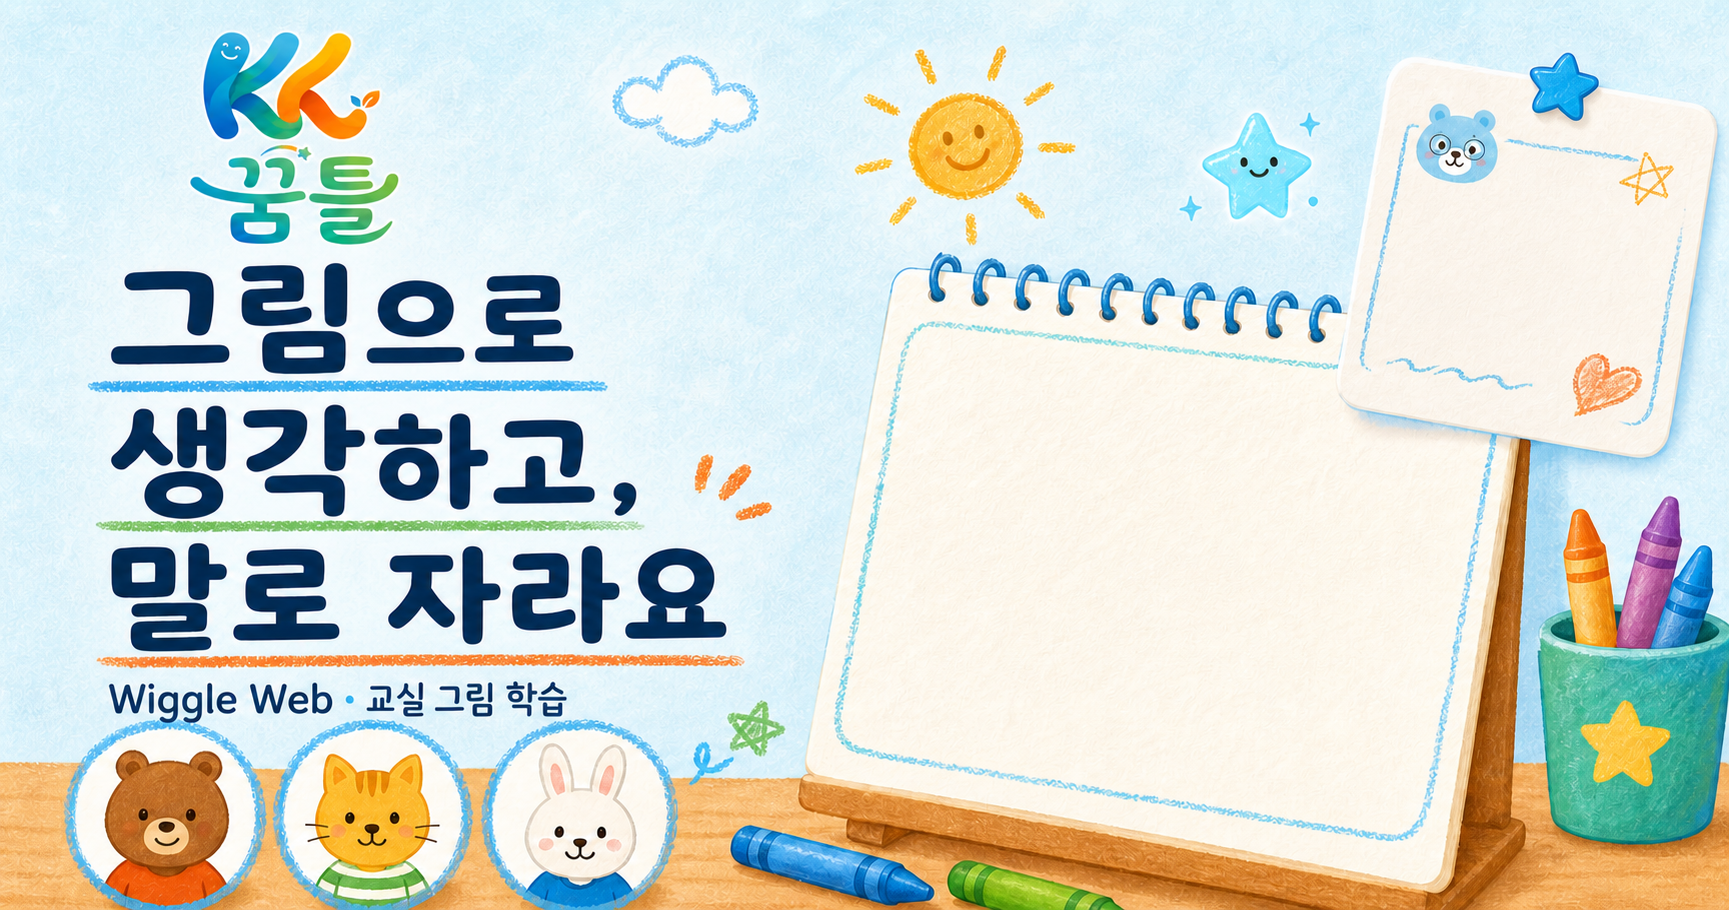
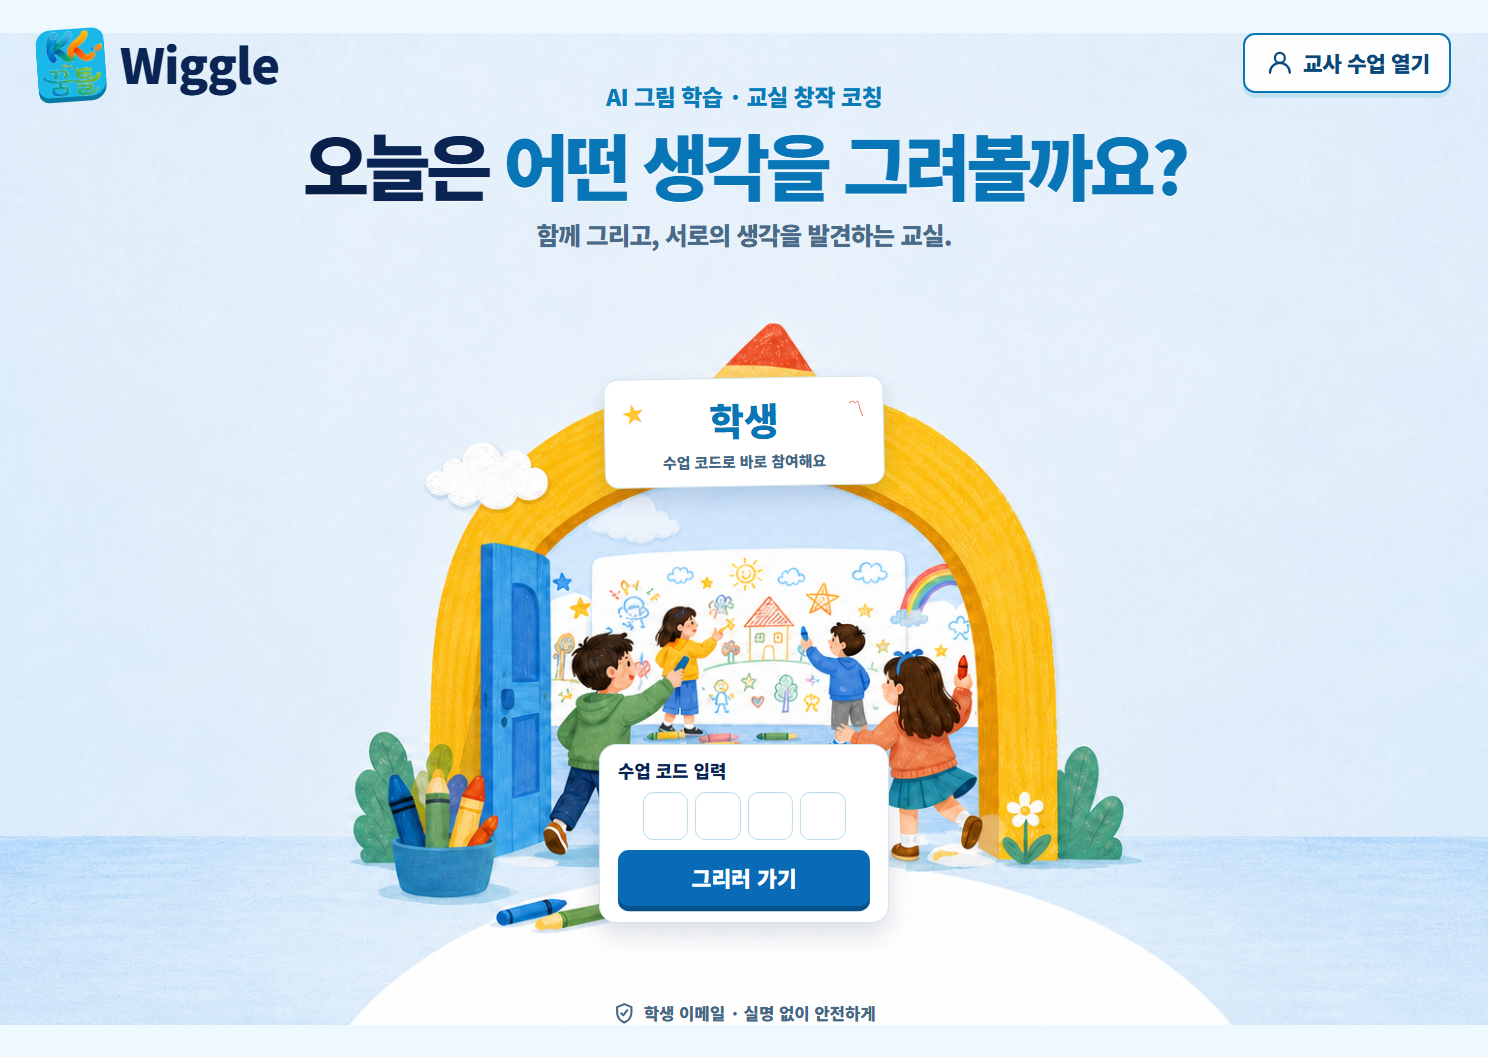
docs: refresh README hero, previews, and stale facts to the shipped app
GitHub 첫 화면이 7월 22일 MVP 1 상태로 남아 있던 것을 현행화한다.

- public/og.png(히어로 겸 OG 카드)를 구브랜드 배너에서 현재 그림책
  대문의 1488×1057 실캡처로 교체(2.27MB→1.39MB), layout.tsx OG 크기 갱신
- 실캡처 미리보기 3장 추가(docs/images/): 태블릿 입장 2열 카드,
  그리기 화면(펜 아래 굵기 점), 교사 수업 진행실
- 본문 정정: 교사 세션 쿠키는 구글 콜백 발급만 Lax·그 외 Strict(e2df6de),
  /student/activities 경로 추가, check:browser --ipad(768×880)·--desktop 안내

검증: typecheck·lint·268/268·diff-check, 로컬에서 /og.png 신규 서빙 확인.

diff --git a/app/layout.tsx b/app/layout.tsx
@@ -27,7 +27,7 @@ export async function generateMetadata(): Promise<Metadata> {
       title,
       description,
       type: "website",
-      images: [{ url: new URL("/og.png", metadataBase), width: 1728, height: 910, alt: "Wiggle Web 교실 그림 학습" }],
+      images: [{ url: new URL("/og.png", metadataBase), width: 1488, height: 1057, alt: "Wiggle Web 교실 그림 학습" }],
     },
     twitter: {
       card: "summary_large_image",

diff --git a/README.md b/README.md
@@ -1,5 +1,5 @@
 <p align="center">
-  <img src="./public/og.png" alt="Wiggle Web — 그림으로 생각하고, 말로 자라요" width="100%" />
+  <img src="./public/og.png" alt="Wiggle 대문 — 오늘은 어떤 생각을 그려볼까요? 4자리 수업 코드로 바로 입장" width="100%" />
 </p>
 
 <h1 align="center">Wiggle Web</h1>
@@ -38,6 +38,30 @@
 
 > [!IMPORTANT]
 > Wiggle Web은 현재 **활발히 개발 중인 교육용 프로토타입**입니다. 핵심 기능과 서버 저장은 연결돼 있고 주요 모바일·태블릿 화면도 회귀 검증하지만, 실제 비문해 저학년의 독립 사용성과 학교 운영 적합성은 별도 현장 검증이 필요합니다. 공개 프리뷰는 제품 방향과 기능 확인용입니다.
+
+## 🖼 화면 미리보기
+
+위 배너와 아래 화면은 모두 실제 앱 캡처입니다 (2026-08-20 기준).
+
+<table>
+  <tr>
+    <td rowspan="2" width="45%" valign="top">
+      <img src="./docs/images/entry-tablet.png" alt="학생 입장 — 태블릿 한 화면에서 동물·별명·그림 비밀번호를 고르는 2열 카드" />
+    </td>
+    <td width="55%">
+      <img src="./docs/images/studio-desktop.png" alt="그리기 화면 — 도화지, 펜 4종과 굵기 점, 색 팔레트, 그리미 부르기" />
+    </td>
+  </tr>
+  <tr>
+    <td>
+      <img src="./docs/images/teacher-room.png" alt="교사 수업 진행실 — 수업 코드와 QR, 오늘의 활동, 짧은 도움말, 학생 진행" />
+    </td>
+  </tr>
+  <tr>
+    <td align="center"><sub>학생 입장 — 이름 대신 동물·별명·그림 비밀번호</sub></td>
+    <td align="center"><sub>그리기 화면(위) · 교사 수업 진행실(아래)</sub></td>
+  </tr>
+</table>
 
 ---
 
@@ -235,7 +259,7 @@ flowchart TB
 - 교사 요청마다 담당 학급 소유권 확인
 - 학급 코드와 QR만으로 학생 목록이나 작품 열람 불가
 - 작품 저장 revision CAS와 요청 멱등성
-- 같은 출처 교사 쓰기와 `SameSite=Strict` 쿠키
+- 같은 출처 교사 쓰기 검사와 `HttpOnly` 교사 세션 쿠키 — 구글 콜백이 발급하는 세션만 `SameSite=Lax`(리디렉션 연쇄 생존), 그 외 발급은 `Strict`
 - 학생·교사·AI 요청별 rate limit
 - 전체 채팅 원문 대신 제품에 필요한 구조화 사건만 저장
 
@@ -250,6 +274,7 @@ flowchart TB
 | `/join/:token` | QR·토큰 입장 |
 | `/join/recover` | 이전 개인 QR 호환 경로(기본 학생 입장 UI에는 표시하지 않음) |
 | `/student` | 학생 홈과 오늘의 추천 |
+| `/student/activities` | 활동 고르기 |
 | `/student/practice` | 1단계 선·도형 |
 | `/student/guided` | 2단계 따라 그리기 |
 | `/student/observe` | 3단계 관찰 그리기 |
@@ -338,6 +363,13 @@ npm.cmd run dev            # 별도 창
 npm.cmd run check:browser
 ```
 
+태블릿·데스크톱 화면을 바꿨다면 같은 명령에 모드를 붙여 확장 뷰포트도 실측합니다.
+
+```powershell
+npm.cmd run check:browser -- http://localhost:3000 --ipad      # 768×1024 · 768×880(사파리 실높이) · 820×1180
+npm.cmd run check:browser -- http://localhost:3000 --desktop   # 1440×900 · 1920×1080
+```
+
 > [!WARNING]
 > 자동 테스트 통과는 실제 저학년 UX 통과를 의미하지 않습니다. `check:browser`는 실측이지만 headless 환경이며, 실기기(iPad Safari·Android Chrome)와 실제 아동 관찰을 대신하지 못합니다.
 
@@ -346,6 +378,7 @@ npm.cmd run check:browser
 - `320 × 568` 세로
 - `390 × 844` 세로
 - `844 × 390` 가로
+- 태블릿 화면을 바꿨다면 `--ipad` 3종(특히 사파리 상단 크롬을 뺀 `768 × 880`)
 - 가능하면 실제 iPad Safari와 Android Chrome
 
 ## 🗃 데이터베이스 변경

diff --git a/docs/current-state.md b/docs/current-state.md
@@ -151,6 +151,13 @@
 - 빌드 버그 추가 확인: 자손 선택자 `.landing-trust-note svg`로 쓰면 뒤 무대 블록의 동일 문자열 선택자와 병합되며 앞 규칙이 산출물에서 소실된다(`:has()` 소실과 같은 부류) — `>` 자식 결합자로 회피, 소스 주석으로 고정.
 - 검증: typecheck·lint·268/268(EXIT=0)·`git diff --check`, browser-check 기본 3뷰포트 실패 0, `--ipad` 3뷰포트 실패 0(768×880 핀치 1건은 기록된 CDP 환경 문제 SKIP), 896×634(시안 기준 크기) 무대 렌더 불변 실측, 1024×1366(iPad Pro 세로) 44px 미달 0·가로 넘침 0. `--desktop` 8건 실패는 main과 완전 동일한 기존 문제(무대 자체의 소형 컨트롤, 데스크톱 굵기 버튼 폭 25px)로 이번 변경과 무관 — 별도 판단 대상.
 
+## 2026-08-20 README·대표 이미지 현행화 (claude/readme-refresh)
+
+- `public/og.png`(README 히어로 겸 OG 카드)가 7월 22일 MVP 1의 구브랜드 배너(꿈틀 로고)로 남아 있던 것을 현재 그림책 대문의 1488×1057 실캡처로 교체했다(2.27MB→1.39MB). `app/layout.tsx`의 OG 크기 메타데이터도 1488×1057로 갱신.
+- README에 실캡처 미리보기 3장(태블릿 입장 2열 카드·그리기 화면·교사 진행실, `docs/images/`) 섹션을 추가했다.
+- 본문 정정: 교사 세션 쿠키 서술을 실제 코드와 일치시킴(구글 콜백 발급만 Lax, 그 외 Strict — e2df6de 반영), `/student/activities` 경로 추가, `check:browser`의 `--ipad`(768×880 포함)·`--desktop` 모드 안내 추가.
+- 검증: typecheck·lint·268/268(EXIT=0)·diff-check, 로컬 서버에서 `/og.png` 신규 파일 서빙 확인. `docs/security-data-model.md`에 은퇴한 worker/D1 서술이 남은 것은 별도 작업으로 분리.
+
 ## 다음 작업 시작 전 확인
 
 1. 이 문서와 `product-decisions.md`, `pending-decisions.md`를 읽는다.
